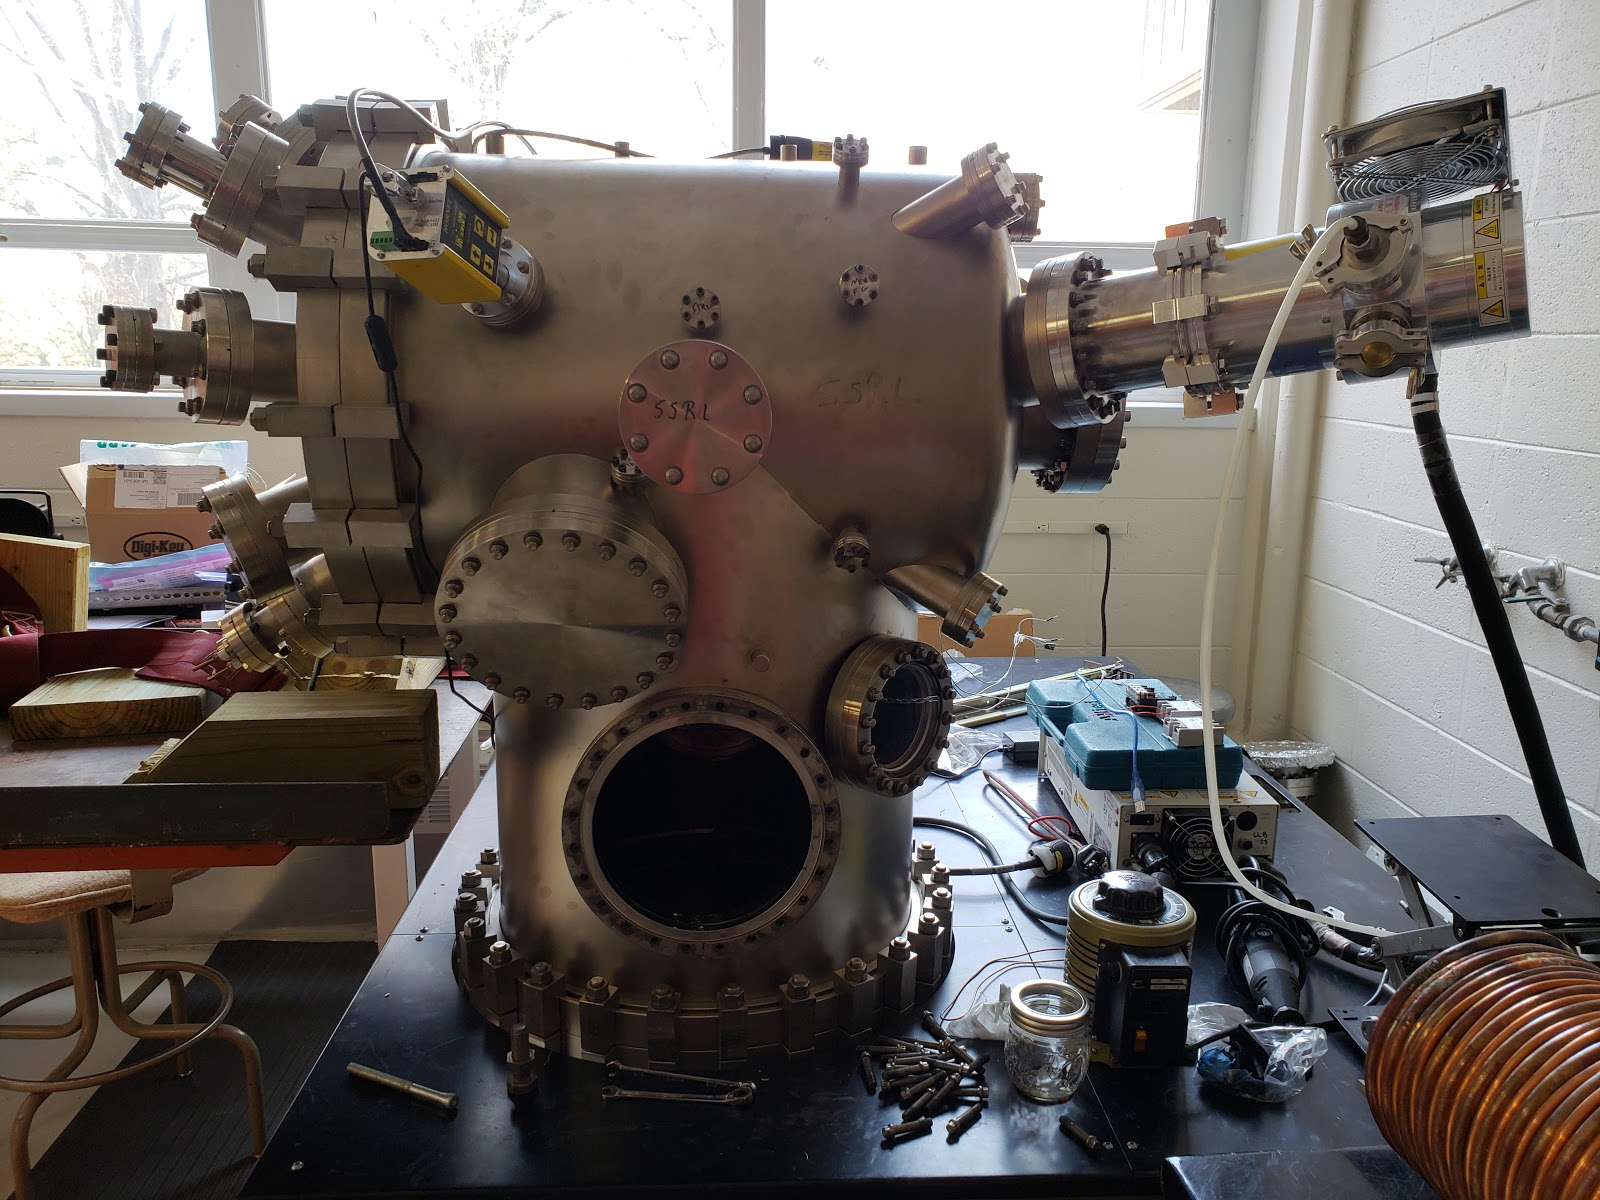
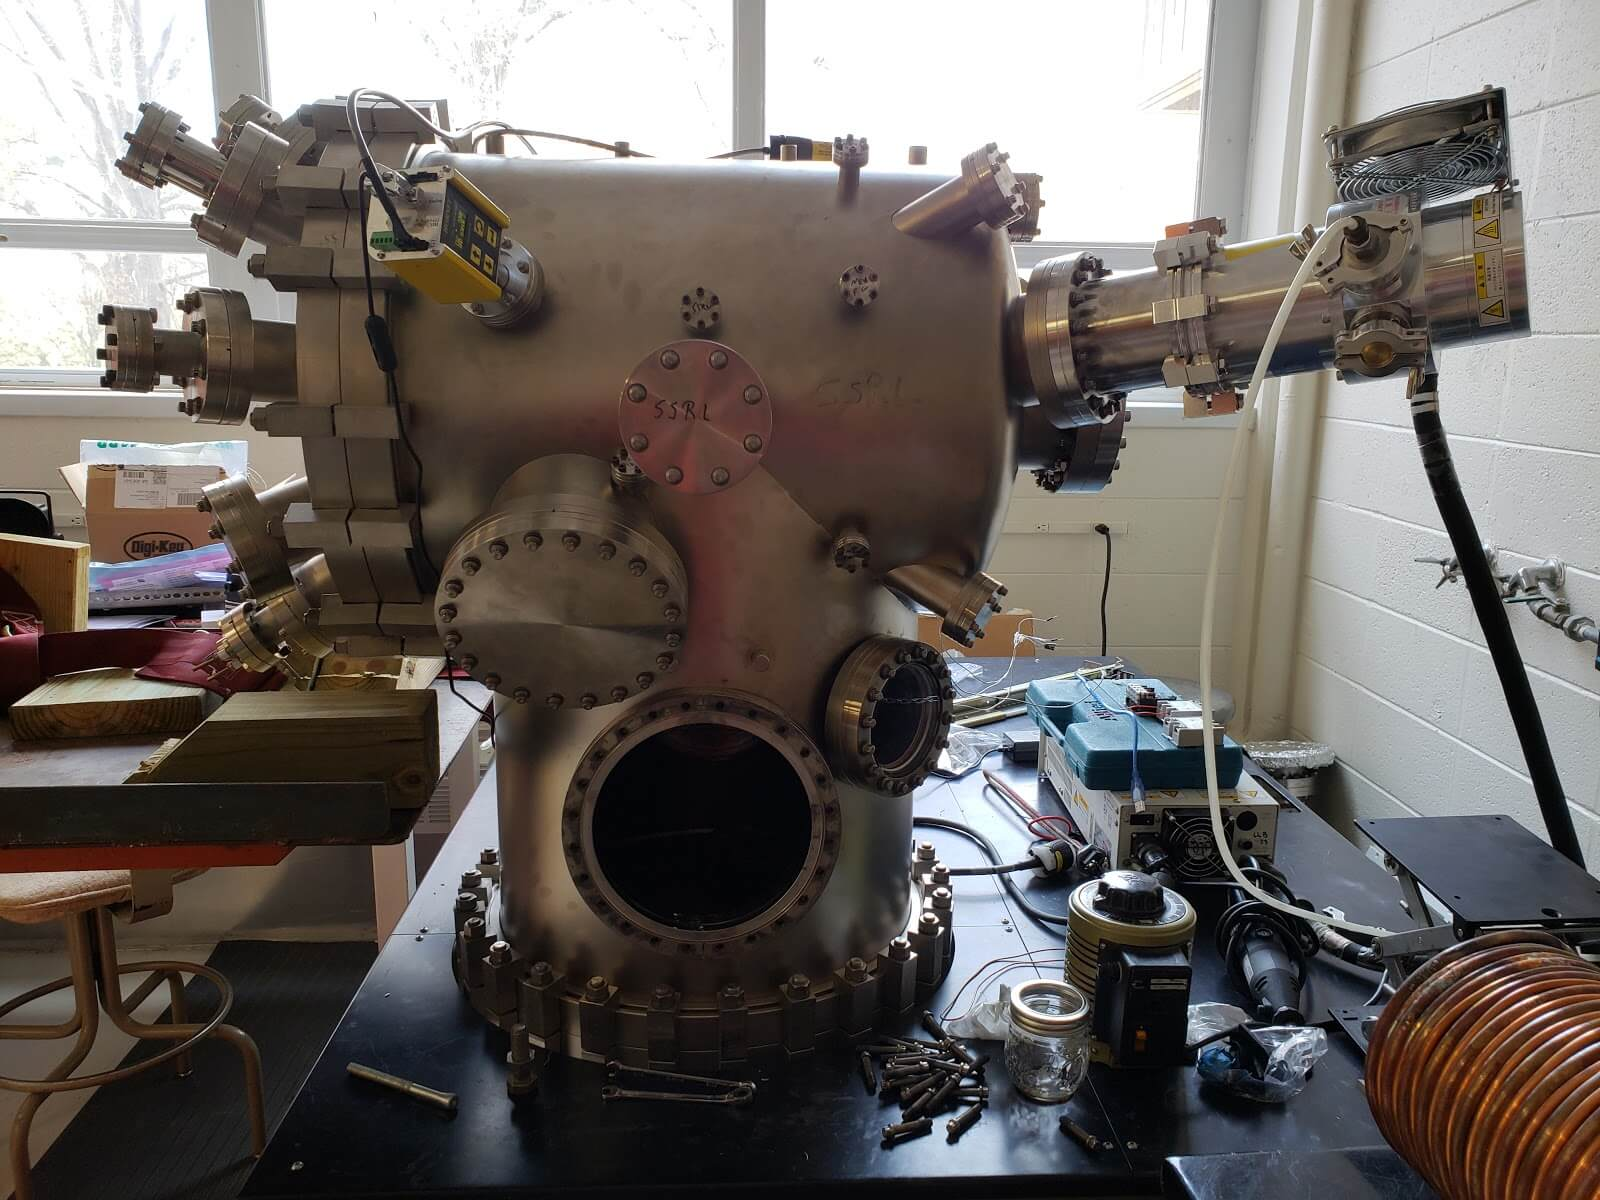
optimize image resolution
...faster

diff --git a/index.html b/index.html
@@ -117,7 +117,7 @@
 
 			<section class = "section section-dark">
 				<div class="research">
-				<p style="text-align: left;text-indent:50px">My research...</p>				
+				<p style="text-align: left;text-indent:50px;margin:0% 20% 0% 20%">For the past two years...</p>				
 			</div>
 			</section>
 
@@ -132,19 +132,19 @@
 			<section class = "section section-dark">
 			<div class="vacuum_chamber">
 				<h2 style="padding: 30px 0px 20px 0px; text-decoration: underline;">Thermal Vacuum Shroud</h2>
-				<p style="text-align: left;padding-bottom:20px">The project concerns the Small Satellite Research Labaoratory. Part of ensuring that the satellites work correctly in LEO requires testing. As a result the lab was given requirements by NASA, Air Force, and the University Nanosatellite Project (UNP) to test the satellites. Part of which is heating and cooling the satellite in both atmospheric and vacuum environments. It started with modeling the vacuum chamber.</p>
+				<p style="text-align: left;padding-bottom:20px;text-indent:50px;margin:0% 20% 0% 20%">The project concerns the Small Satellite Research Labaoratory. Part of ensuring that the satellites work correctly in LEO requires testing. As a result the lab was given requirements by NASA, Air Force, and the University Nanosatellite Project (UNP) to test the satellites. Part of which is heating and cooling the satellite in both atmospheric and vacuum environments. It started with modeling the vacuum chamber.</p>
 				<div>
 					<img class="hand_2" src="shroud_1.png" >
 					<img class="hand_2" src="shroud_2.jpg" >
 				</div>
-				<p style="text-align:left">It started with coming up with a variety of designs that would both fit the chamber and fulfill the heating requirements, the challenge was creating enough heat to increase the temperature of the satellite through radiation in 10e-6 torr. The framed picture is the final design.
+				<p style="text-align:left;margin:0% 20% 0% 20%">It started with coming up with a variety of designs that would both fit the chamber and fulfill the heating requirements, the challenge was creating enough heat to increase the temperature of the satellite through radiation in 10e-6 torr. The framed picture is the final design.
 				</p>
 				<div>
-					<img class="hand_2" src="shroud_4.jpg" >
-					<img class="hand_2" src="shroud_5.jpg" >
-					<img style="border:5px solid orange" class="hand_2" src="shroud_6.jpg" >
+					<img class="hand_2" src="shroud_4.png" >
+					<img class="hand_2" src="shroud_5.png" >
+					<img style="border:5px solid orange" class="hand_2" src="shroud_6.png" >
 				</div>
-				<p style="text-align:left">Below is the final manufactured product. The principles are four heating elements to heat the satellite on the y sides. A copper coil surrounding a copper cylinder is extruded to help catch radiated heat. For cooling, liquid nitrogen is pumped through the tubes. Image on left pictures the shroud with a 3D printed model of satellite.
+				<p style="text-align:left;margin:0% 20% 0% 20%">Below is the final manufactured product. The principles are four heating elements to heat the satellite on the y sides. A copper coil surrounding a copper cylinder is extruded to help catch radiated heat. For cooling, liquid nitrogen is pumped through the tubes. Image on left pictures the shroud with a 3D printed model of satellite.
 				</p>
 				<div>
 					<img class="hand_2" src="shroud_7.jpg" >
@@ -154,21 +154,21 @@
 			</section>
 			<section class = "section section-light">
 				<h2 style="padding: 30px 0px 20px 0px; text-decoration: underline;">Realistic Hand Rig</h2>
-				<p style="text-align:left">I started and finished the project over the last summer. I saw an extremely realistic facial rig on Twitter when I wanted to create my own. Below is a quick animation from the rig in Blender.
+				<p style="text-align:left;text-indent:50px;margin:0% 20% 0% 20%">I started and finished the project over the last summer. I saw an extremely realistic facial rig on Twitter when I wanted to create my own. Below is a quick animation from the rig in Blender.
 				</p>
 				<div>
 					<video class="hand_video" width="400px" height=auto controls>
 						<source src="video_1_Trim.mp4" type="video/mp4">
 					</video>
 				</div>
-				<p style="text-align:left"> I took pictures of my hand in top and side perspectives and then used photoshop to level them out to give the right aspect rations for the two angles.
+				<p style="text-align:left;margin:0% 20% 0% 20%"> I took pictures of my hand in top and side perspectives and then used photoshop to level them out to give the right aspect rations for the two angles.
 				</p>
 				<div>
 					<img class="hand" src="hand_1.jpg" >
 					<img class="hand" src="hand_2.jpg" >
 				</div>
 				<p>I used both <span style="color: #FFAA00"> Blender </span> (right) and Autodesk <span style="color: #00D4FF">3ds Max </span> (left). </p>
-				<p style="text-align: left;"><span style="color: #FFAA00">Blender:</span> Created textures, the texture is actually multi-layered meaning it has different layers through which the light penetrates, giving it a more realistic "skin-like" look. I also created the bone structure (vertex assignment), lighting and animation with this software. </p><p style="text-align: left;"><span style="color: #00D4FF">3ds Max:</span> Layed out my reference picutes as stated above. Then I created and positioned the mesh with respect to pictures.</p>
+				<p style="text-align: left;margin:0% 20% 0% 20%"><span style="color: #FFAA00">Blender:</span> Created textures, the texture is actually multi-layered meaning it has different layers through which the light penetrates, giving it a more realistic "skin-like" look. I also created the bone structure (vertex assignment), lighting and animation with this software. </p><p style="text-align: left;margin:0% 20% 0% 20%"><span style="color: #00D4FF">3ds Max:</span> Layed out my reference picutes as stated above. Then I created and positioned the mesh with respect to pictures.</p>
 				<div>
 					<img class="hand_1" src="hand_3.png" >
 					<img class="hand_1" src="hand_4.png" >
